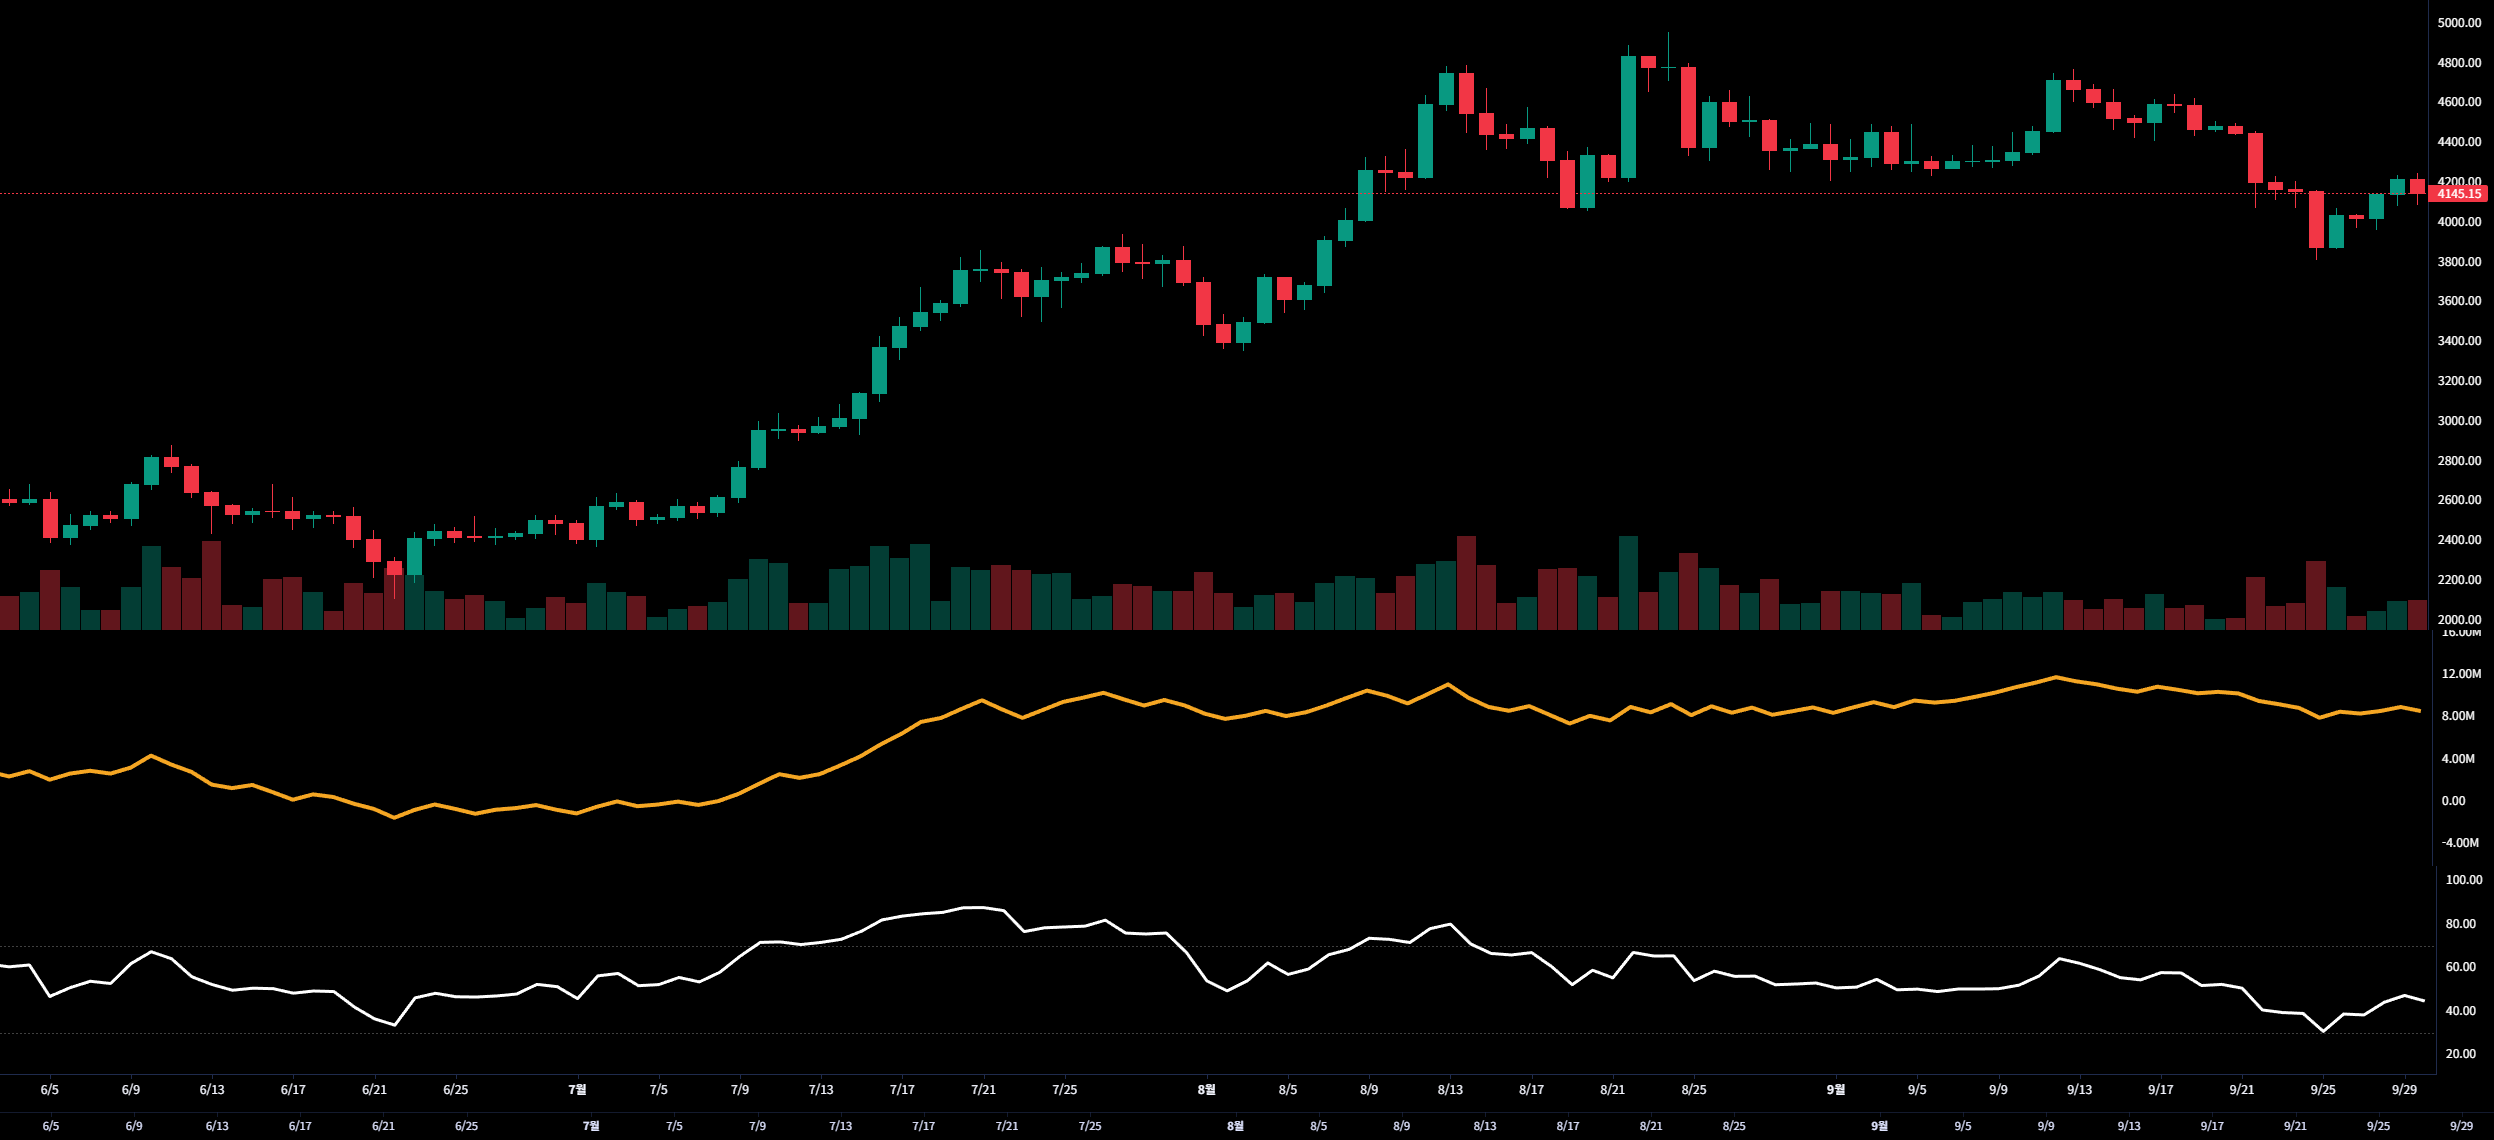
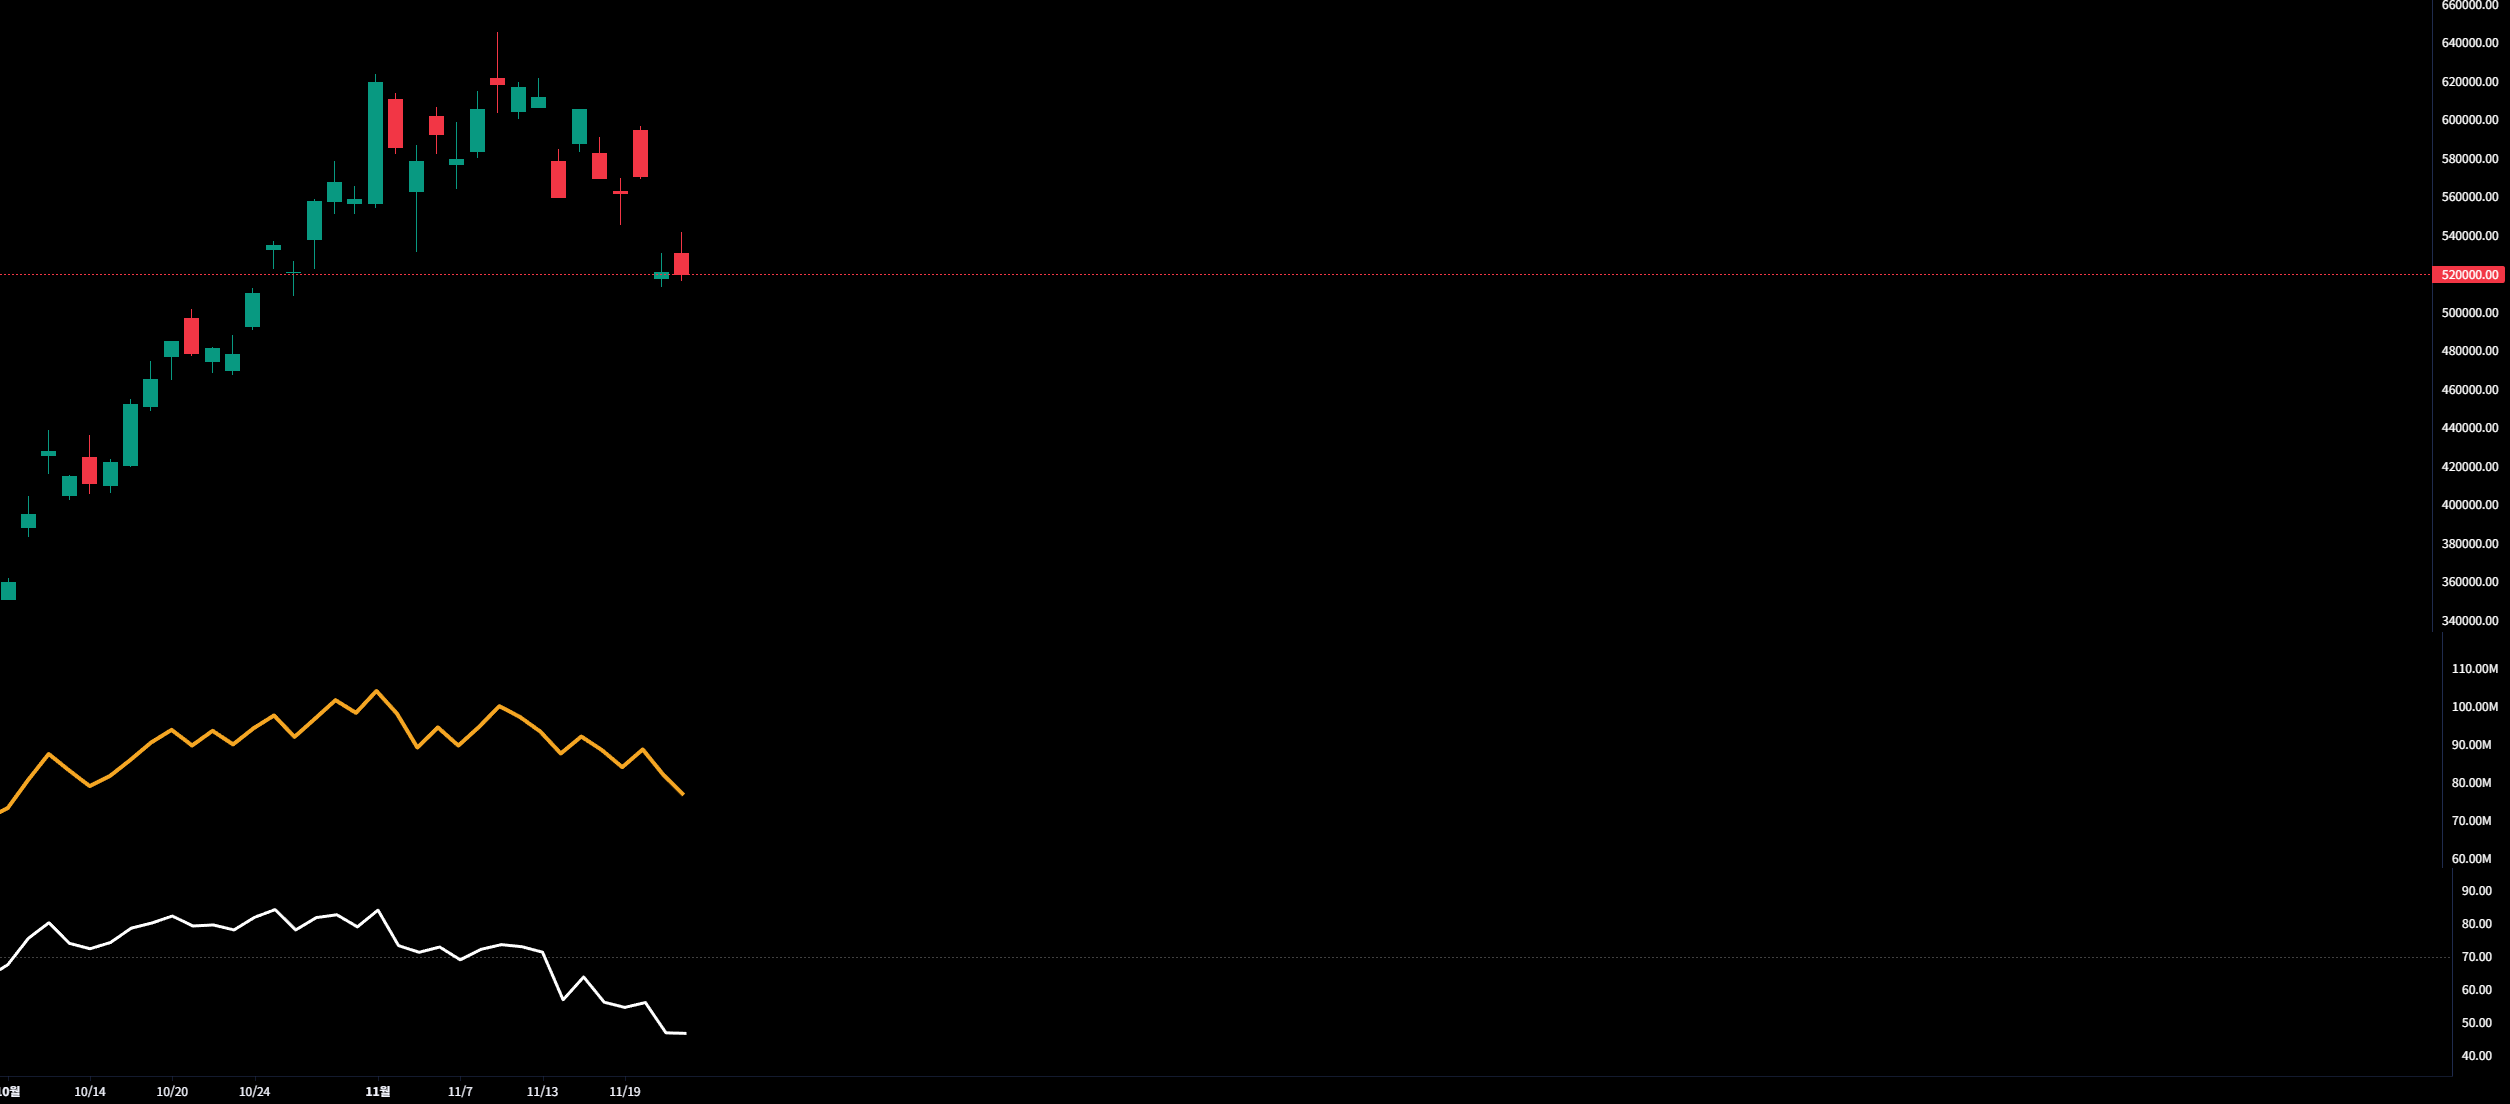
obv기울기 선명도 개선

diff --git a/main.py b/main.py
@@ -684,6 +684,7 @@ def index() -> str:
 
         let priceChart, obvChart, rsiChart;
         let candleSeries, volumeSeries, rsiSeries, obvSeries;
+        let latestObvData = [];
         let currentChartType = null;
 
         const destroyCharts = () => {
@@ -706,6 +707,8 @@ def index() -> str:
             volumeSeries = null;
             rsiSeries = null;
             obvSeries = null;
+            obvBaselineLine = null;
+            latestObvData = [];
             charts.length = 0;
             containerChartMap.clear();
         };
@@ -830,6 +833,12 @@ def index() -> str:
             registerChart(priceChart);
             registerChart(obvChart);
             registerChart(rsiChart);
+            obvChart
+                .timeScale()
+                .subscribeVisibleLogicalRangeChange((range) => {
+                    if (!range) return;
+                    applyObvScale(range);
+                });
             
             observeChartContainer(priceContainer, priceChart);
             observeChartContainer(obvContainer, obvChart);
@@ -980,6 +989,55 @@ def index() -> str:
                 : "--";
         };
 
+        const applyObvScale = (visibleRange = null) => {
+            if (!obvSeries || !obvChart || !Array.isArray(latestObvData) || !latestObvData.length) {
+                return;
+            }
+
+            let startIndex = 0;
+            let endIndex = latestObvData.length - 1;
+            if (
+                visibleRange &&
+                Number.isFinite(visibleRange.from) &&
+                Number.isFinite(visibleRange.to)
+            ) {
+                startIndex = Math.max(0, Math.floor(visibleRange.from));
+                endIndex = Math.min(latestObvData.length - 1, Math.ceil(visibleRange.to));
+            }
+            if (startIndex > endIndex) return;
+
+            const segment = latestObvData.slice(startIndex, endIndex + 1);
+            const values = segment
+                .map((point) => point.value)
+                .filter((value) => Number.isFinite(value));
+            if (!values.length) return;
+
+            const minValue = Math.min(...values);
+            const maxValue = Math.max(...values);
+            const span = Math.max(Math.abs(maxValue - minValue), 1);
+            const padding = span * 0.1;
+            const priceRange = {
+                minValue: minValue - padding,
+                maxValue: maxValue + padding,
+            };
+
+            obvSeries.applyOptions({
+                autoscaleInfoProvider: () => ({ priceRange }),
+            });
+
+            obvChart.priceScale("right").applyOptions({
+                autoScale: true,
+                scaleMargins: {
+                    top: 0.2,
+                    bottom: 0.2,
+                },
+            });
+            const priceScaleApi = obvChart.priceScale("right");
+            if (priceScaleApi && typeof priceScaleApi.resetAutoScale === "function") {
+                priceScaleApi.resetAutoScale();
+            }
+        };
+
         const charts = [];
         const subscribeChart = (chart) => {
             chart
@@ -1050,6 +1108,7 @@ def index() -> str:
                 candleSeries.setData(data.candles);
                 latestVolumeData = data.volumes;
                 latestCandles = data.candles;
+                latestObvData = data.obv || [];
                 candleMap = buildDataMap(data.candles);
                 volumeMap = buildDataMap(data.volumes);
                 rsiMap = buildDataMap(data.rsi);
@@ -1059,6 +1118,9 @@ def index() -> str:
                 syncVolumeSeries();
                 rsiSeries.setData(data.rsi);
                 obvSeries.setData(data.obv);
+                const range = obvChart.timeScale().getVisibleLogicalRange();
+                applyObvScale(range);
+                applyObvScale(data.obv);
                 priceChart.timeScale().fitContent();
                 const syncedRange = priceChart.timeScale().getVisibleLogicalRange();
                 syncRanges(priceChart, syncedRange);
